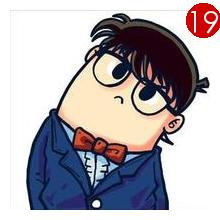
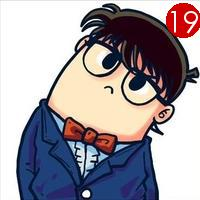
000 给头像右上角加红点 Final

diff --git a/python project/pil_drawreddot.py b/python project/pil_drawreddot.py
@@ -4,14 +4,10 @@ from PIL import Image, ImageDraw, ImageFont
 
 im = Image.open("007.jpg")
 w_width, h_height = im.size
-back_size = (w_width + 20, h_height + 20)
-im_back = Image.new("RGBA", back_size, color=(255, 255, 255))
-b_width, b_height = im_back.size
-im_back.paste(im, (10, 10))
-draw = ImageDraw.Draw(im_back)
+draw = ImageDraw.Draw(im)
 text = "19"
 font = ImageFont.truetype("STXIHEI.TTF", 30)
 w_font, h_font = draw.textsize(text,font)
-draw.ellipse(((b_width - w_font, 3), (b_width, w_font + 3)), fill="#D00000", outline=None)
-draw.text((b_width - w_font, 0), text, fill="white", font=font)
-im_back.save("reddot.jpg")
+draw.ellipse(((w_width - w_font, 3), (w_width, w_font + 3)), fill="#D00000", outline=None)
+draw.text((w_width - w_font, 0), text, fill="white", font=font)
+im.save("reddot.jpg")
